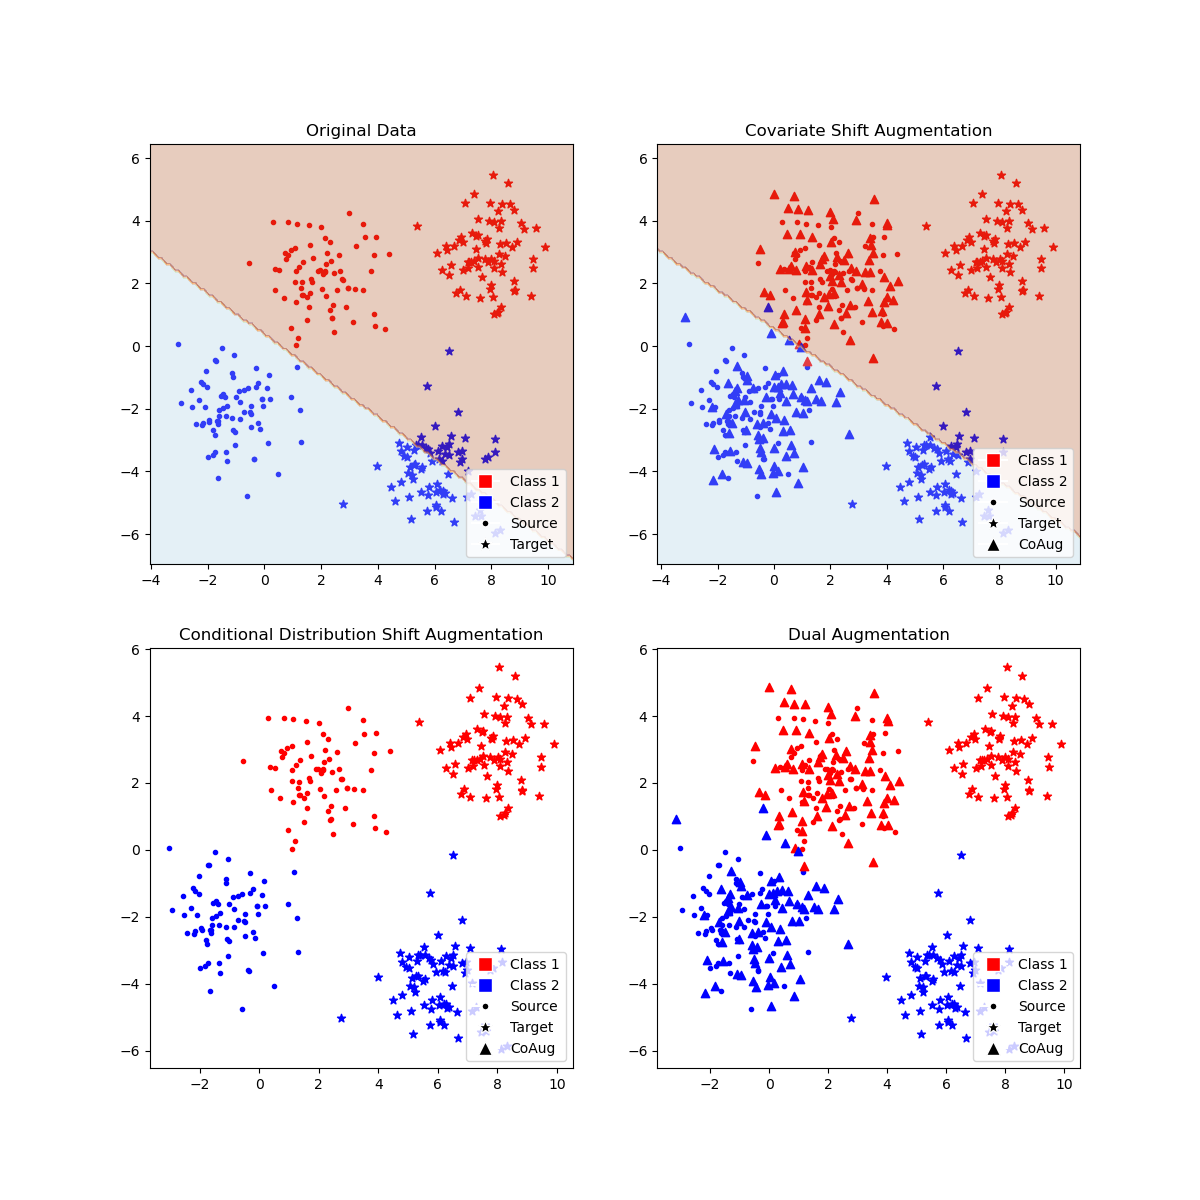
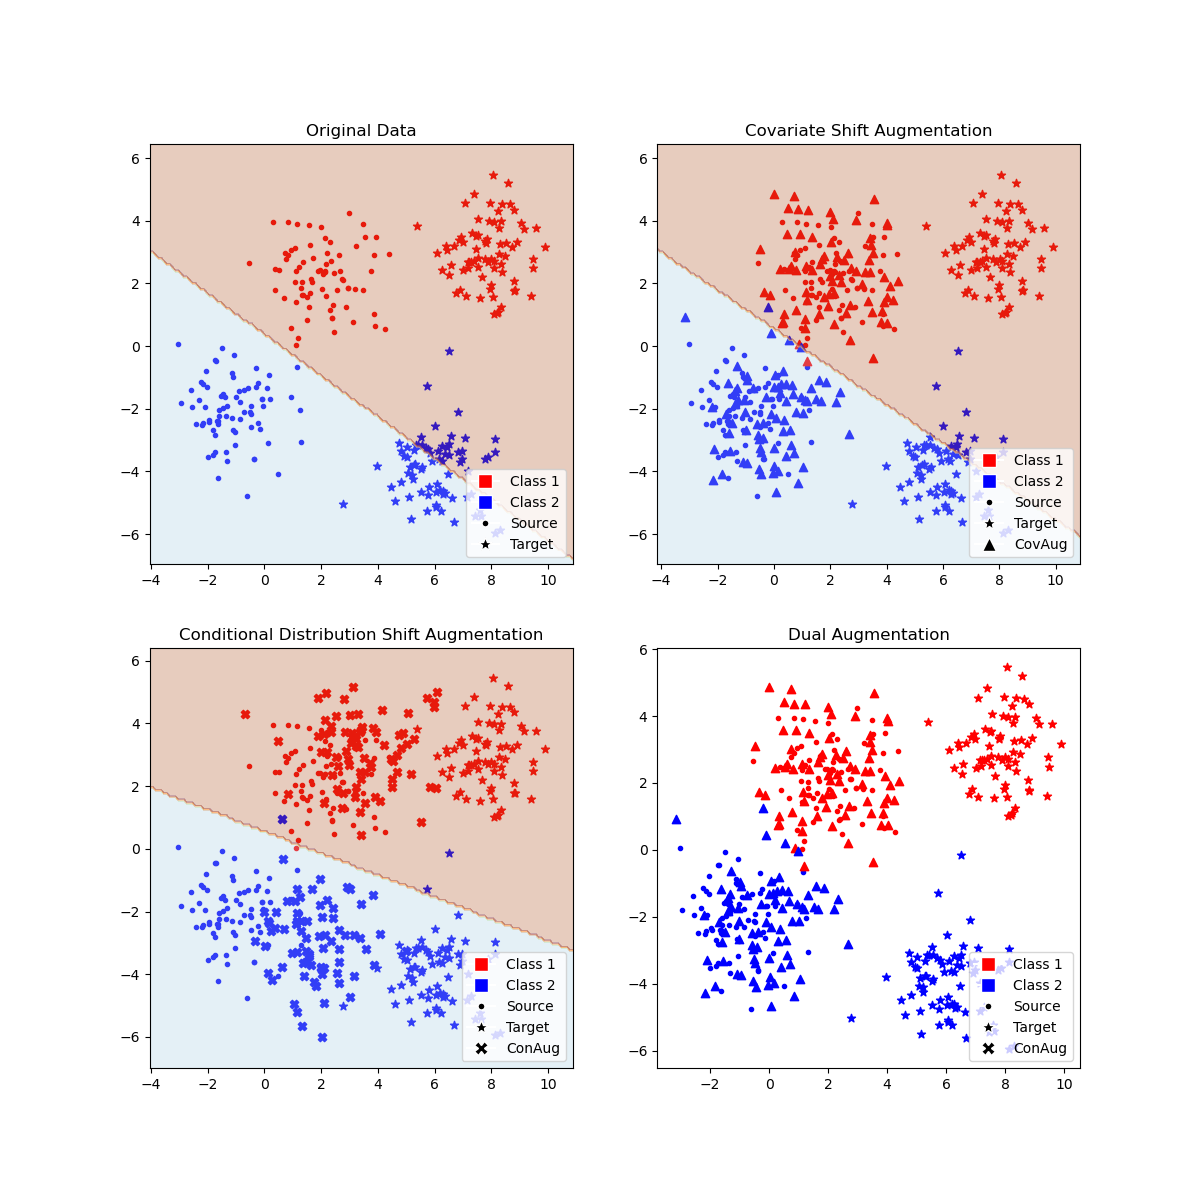
update

Changed region(s): [[0.1233, 0.5242, 0.4933, 0.8942], [0.8017, 0.8017, 0.8942, 0.8942], [0.8017, 0.37, 0.8942, 0.4625]]

diff --git a/data_plot.py b/data_plot.py
@@ -46,6 +46,7 @@ axes[0, 0].legend(handles=legend_elements, loc='lower right')
 # Simulate covariate shift by adding some noise
 s_class_1_covariate = s_class_1 + np.random.normal(0, 0.75, s_class_1.shape)
 s_class_2_covariate = s_class_2 + np.random.normal(0, 0.75, s_class_2.shape)
+# s_class_1_covariate = s_class_1_covariate + [1, 0]
 s_class_2_covariate = s_class_2_covariate + [1, 0]
 axes[0, 1].scatter(s_class_1[:, 0], s_class_1[:, 1], color='red', marker='.', label='Class 1 (Source)')
 axes[0, 1].scatter(s_class_2[:, 0], s_class_2[:, 1], color='blue', marker='.', label='Class 2 (Source)')
@@ -70,22 +71,46 @@ legend_elements = [
     Line2D([0], [0], marker='s', color='w', markerfacecolor='blue', markersize=10, label='Class 2'),
     Line2D([0], [0], marker='.', color='w', markerfacecolor='black', markersize=10, label='Source'),
     Line2D([0], [0], marker='*', color='w', markerfacecolor='black', markersize=10, label='Target'),
-    Line2D([0], [0], marker='^', color='w', markerfacecolor='black', markersize=10, label='CoAug'),
+    Line2D([0], [0], marker='^', color='w', markerfacecolor='black', markersize=10, label='CovAug'),
 ]
 axes[0, 1].legend(handles=legend_elements, loc='lower right')
 
 # Conditional Distribution Shift Plot
 # Simulate conditional distribution shift by shifting means
-# class_1_cond_shift = class_1 + [1.5, 1.5]
-# class_2_cond_shift = class_2 + [-1.5, -1.5]
+np.random.seed(826)
+s_class_1_conditional = s_class_1 + np.random.normal(0, 0.75, s_class_1.shape)
+s_class_2_conditional = s_class_2 + np.random.normal(0, 0.75, s_class_2.shape)
+s_class_1_conditional = s_class_1_conditional + [1.5, 1]
+s_class_2_conditional = s_class_2_conditional + [3, -1]
 axes[1, 0].scatter(s_class_1[:, 0], s_class_1[:, 1], color='red', marker='.', label='Class 1 (Source)')
 axes[1, 0].scatter(s_class_2[:, 0], s_class_2[:, 1], color='blue', marker='.', label='Class 2 (Source)')
 axes[1, 0].scatter(t_class_1[:, 0], t_class_1[:, 1], color='red', marker='*', label='Class 1 (Target)')
 axes[1, 0].scatter(t_class_2[:, 0], t_class_2[:, 1], color='blue', marker='*', label='Class 2 (Target)')
-# axes[2].scatter(class_1_cond_shift[:, 0], class_1_cond_shift[:, 1], color='pink', marker='x', label='Class 1 (Conditional Shift)')
-# axes[2].scatter(class_2_cond_shift[:, 0], class_2_cond_shift[:, 1], color='purple', marker='x', label='Class 2 (Conditional Shift)')
+axes[1, 0].scatter(s_class_1_conditional[:, 0], s_class_1_conditional[:, 1], color='red', marker='X', label='Class 1 (Conditional Shift)')
+axes[1, 0].scatter(s_class_2_conditional[:, 0], s_class_2_conditional[:, 1], color='blue', marker='X', label='Class 2 (Conditional Shift)')
+
+x = np.vstack((s_class_1, s_class_1_conditional, s_class_2, s_class_2_conditional))
+y = np.hstack((np.ones(num_data * 2), np.zeros(num_data * 2)))
+clf = LogisticRegression()
+clf.fit(x, y)
+all_data = np.vstack((s_class_1, s_class_1_conditional, s_class_2, s_class_2_conditional, t_class_1, t_class_2))
+x_min, x_max = all_data[:, 0].min() - 1, all_data[:, 0].max() + 1
+y_min, y_max = all_data[:, 1].min() - 1, all_data[:, 1].max() + 1
+xx, yy = np.meshgrid(np.arange(x_min, x_max, 0.1), np.arange(y_min, y_max, 0.1))
+z = clf.predict(np.c_[xx.ravel(), yy.ravel()]).reshape(xx.shape)
+axes[1, 0].contourf(xx, yy, z, alpha=0.3, cmap=plt.cm.Paired)
 axes[1, 0].set_title('Conditional Distribution Shift Augmentation')
+legend_elements = [
+    Line2D([0], [0], marker='s', color='w', markerfacecolor='red', markersize=10, label='Class 1'),
+    Line2D([0], [0], marker='s', color='w', markerfacecolor='blue', markersize=10, label='Class 2'),
+    Line2D([0], [0], marker='.', color='w', markerfacecolor='black', markersize=10, label='Source'),
+    Line2D([0], [0], marker='*', color='w', markerfacecolor='black', markersize=10, label='Target'),
+    Line2D([0], [0], marker='X', color='w', markerfacecolor='black', markersize=10, label='ConAug'),
+]
 axes[1, 0].legend(handles=legend_elements, loc='lower right')
+
+
+
 
 # Covariate and Conditional Distribution Shift
 axes[1, 1].scatter(s_class_1[:, 0], s_class_1[:, 1], color='red', marker='.', label='Class 1 (Source)')
